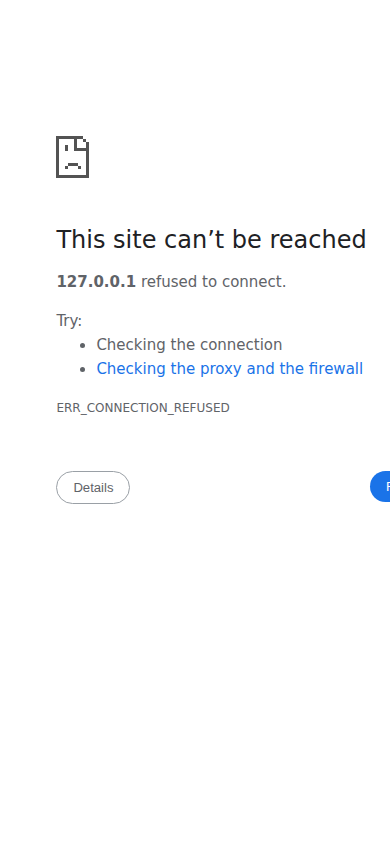
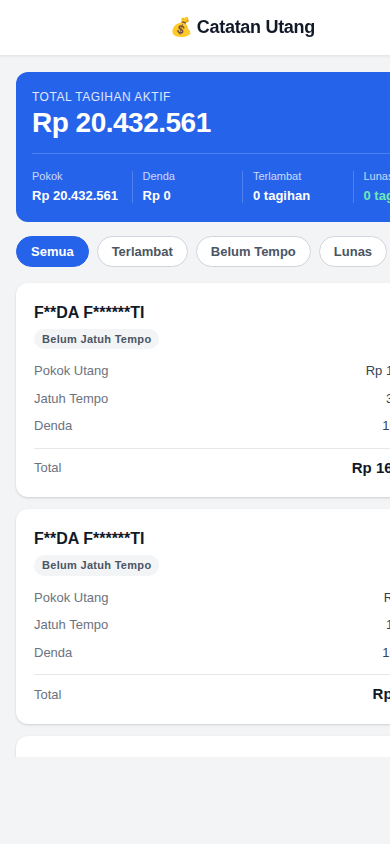
retake mobile screenshot with React content rendered, update README link
Agent-Logs-Url: https://github.com/eabdalmufid/utang/sessions/d436d972-7cd1-42f4-92fd-29b2997999a3

diff --git a/README.md b/README.md
@@ -4,7 +4,7 @@ Website sederhana untuk pengutang melihat tagihan mereka. Dibangun dengan **Reac
 
 ## Screenshot Mobile
 
-![Mobile Screenshot](public/mobile-screenshot.png)
+![Mobile Screenshot](https://raw.githubusercontent.com/eabdalmufid/utang/copilot/create-debt-tracking-website/public/mobile-screenshot.png)
 
 ## Cara Edit Data
 
